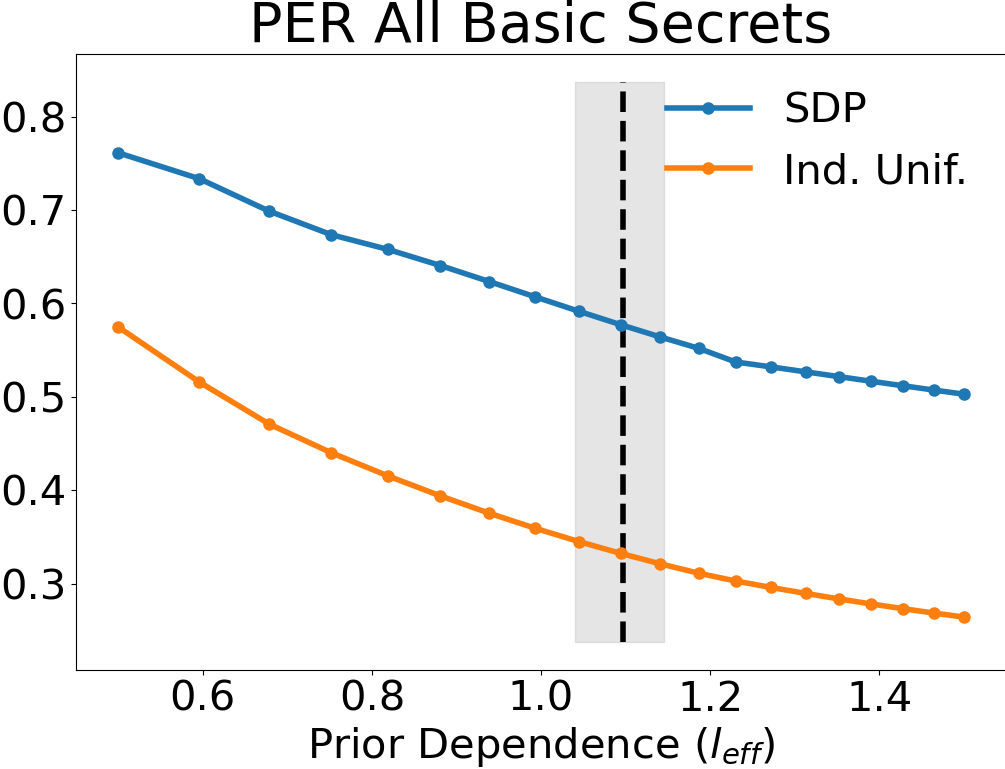
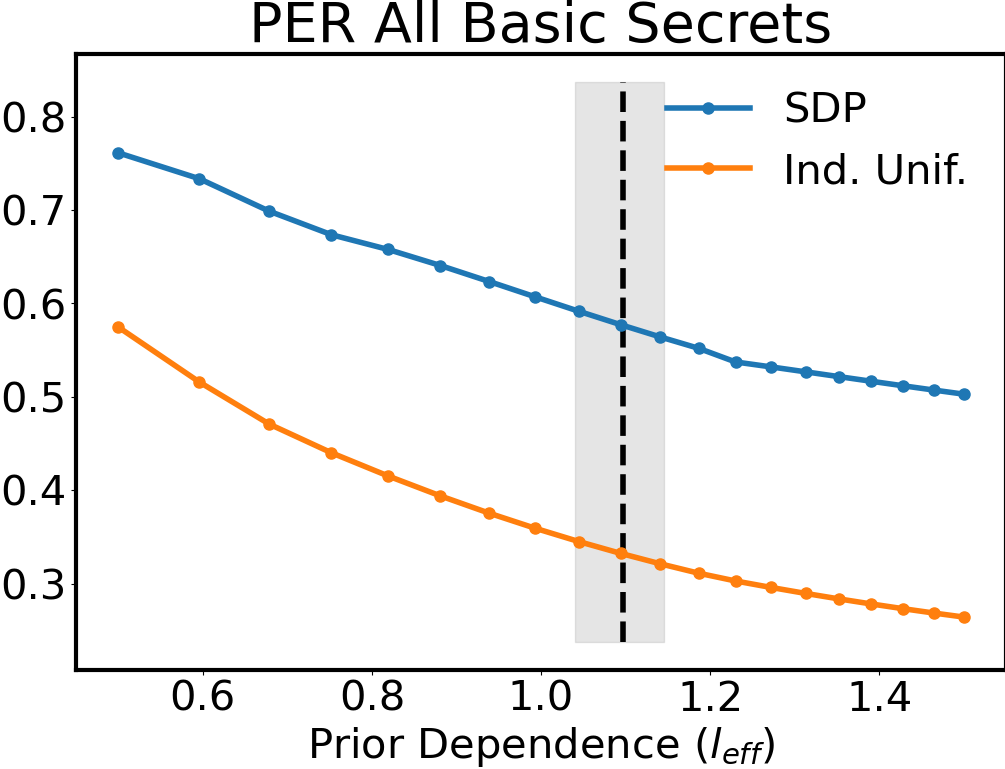
changes to image borders and readme

Changed region(s): [[0.0617, 0.8427, 1.0, 0.8739], [0.0617, 0.0624, 1.0, 0.0936]]

diff --git a/figure_2.py b/figure_2.py
@@ -13,6 +13,7 @@ from pathlib import Path
 import matplotlib as mpl
 mpl.rcdefaults()
 plt.rc('axes', labelsize=30)    # fontsize of the x and y labels
+plt.rc('axes', linewidth=3)     #border of figures 
 plt.rc('xtick', labelsize=30)    # fontsize of the tick labels
 plt.rc('ytick', labelsize=30)    # fontsize of the tick labels
 plt.rc('legend', fontsize=30)    # legend fontsize
@@ -428,11 +429,11 @@ l_effs = np.concatenate((l_eff_x, l_eff_y), axis = 0)
 l_eff_temp = np.load('./saved_data/l_eff_temp.npy') 
 
 #which figures to make
-two_a = False 
-two_b = False 
-two_c = False 
-two_d = False 
-two_e = False 
+two_a = True 
+two_b = True 
+two_c = True
+two_d = True 
+two_e = True 
 two_f = True  
 two_g = True 
 two_h = True 
@@ -531,7 +532,7 @@ if two_c == True:
         CI_iso_uni = np.mean(Sigma_xgz_iso_uni.diagonal())
         ISO_uni_CIs.append(CI_iso_uni)
 
-    plot_sweep_data(l_effs, len_scales_sq, 2*np.sqrt(np.array(SDP_CIs)), 2*np.sqrt(np.array(ISO_uni_CIs)), None, 'figure_3c.png', 'RBF All Basic Secrets')
+    plot_sweep_data(l_effs, len_scales_sq, 2*np.sqrt(np.array(SDP_CIs)), 2*np.sqrt(np.array(ISO_uni_CIs)), None, 'figure_2c.png', 'RBF All Basic Secrets')
 
 #################
 ### FIGURE 2D ###

diff --git a/README.md b/README.md
@@ -1,6 +1,6 @@
 # Location Trace Privacy 
 
-Welcome to the anonymized github repo for the NeurIPS paper under reivew: "Location Trace Privacy Under Conditional Priors" 
+Welcome to the anonymized github repo for the AISTATS paper under reivew: "Location Trace Privacy Under Conditional Priors" 
 
 ## Installation 
 
